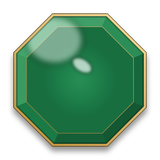
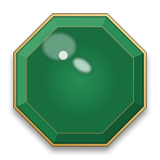
gems: cut the lapis star, and stop muting the accents to olive
The lapis piece was an eight-point star with a 0.60 inner radius — a sparkle, not a stone. The points
are now cut straight (0.76, the ratio two overlapping squares give), with facet lines running from the
table out to each point and alternate wedges shaded, and the specular tight and off-centre instead of a
wide soft ellipse that read as a cloud lying on the stone.

Also: a disabled button was multiplied down to 0.60, which turned the turquoise price pills olive-grey.
They are dimmed to 0.76 now, so an unaffordable task still reads as a turquoise button.

Changed region(s): [[0.1562, 0.0938, 0.5312, 0.4062]]

diff --git a/godot-port/tools/make_gem_art.py b/godot-port/tools/make_gem_art.py
@@ -100,7 +100,7 @@ def silhouette(spec):
     if spec["shape"] == "round":
         return _circle(radius)
     if spec["shape"] == "star8":
-        return _star(8, radius * 1.02, radius * 0.60)
+        return _star(8, radius * 1.02, radius * 0.76)
     if spec["shape"] == "drop":
         return _drop(radius * 0.74, radius * 1.10)
     return _octagon(radius * 1.00)
@@ -217,14 +217,39 @@ def faceted(spec, points, bevel=0.16):
         crease.line([(a_in[0] * SS, a_in[1] * SS), (b_in[0] * SS, b_in[1] * SS)],
                     fill=(0, 0, 0, 46), width=max(1, SS // 2))
 
+    # Facet lines from the centre to each point of the star. A cut stone is a table with edges running
+    # out to the girdle; without them the star is a shape with a bevel, not a stone.
+    facet_draw = ImageDraw.Draw(canvas, "RGBA")
+    if len(points) >= 12:
+        for index in range(0, len(points), 2):
+            x, y = points[index]
+            facet_draw.line([(CX * SS, CY * SS), (x * SS, y * SS)], fill=(255, 255, 255, 26),
+                            width=max(1, SS // 2))
+        # Alternate wedges get a touch of shade: the table catches the light unevenly, as a real cut does.
+        for index in range(0, len(points), 4):
+            a = points[index]
+            b = points[(index + 2) % len(points)]
+            wedge = [(CX, CY), a, b]
+            shade_layer = Image.new("RGBA", (SIZE * SS, SIZE * SS), (0, 0, 0, 0))
+            ImageDraw.Draw(shade_layer).polygon([(x * SS, y * SS) for x, y in wedge],
+                                                fill=(8, 12, 28, 30))
+            canvas.alpha_composite(_crop(shade_layer, mask_of(points)))
+
     # Specular: one soft pass over the upper left of the plate.
     spec_layer = Image.new("RGBA", (SIZE * SS, SIZE * SS), (0, 0, 0, 0))
     spec_draw = ImageDraw.Draw(spec_layer)
-    spec_draw.ellipse((CX * SS - SIZE * SS * 0.34, CY * SS - SIZE * SS * 0.40,
-                       CX * SS + SIZE * SS * 0.02, CY * SS - SIZE * SS * 0.10),
-                      fill=WHITE + (110,))
-    canvas.alpha_composite(clip_to(spec_layer.filter(ImageFilter.GaussianBlur(SS * 3.2)),
+    # Small and off-centre: a wide soft ellipse over a faceted plate reads as a cloud sitting on the
+    # stone, which is what the first pass looked like on the lapis star.
+    spec_draw.ellipse((CX * SS - SIZE * SS * 0.24, CY * SS - SIZE * SS * 0.30,
+                       CX * SS - SIZE * SS * 0.02, CY * SS - SIZE * SS * 0.12),
+                      fill=WHITE + (86,))
+    canvas.alpha_composite(clip_to(spec_layer.filter(ImageFilter.GaussianBlur(SS * 1.8)),
                                    mask_of(points)))
+    spark = Image.new("RGBA", (SIZE * SS, SIZE * SS), (0, 0, 0, 0))
+    ImageDraw.Draw(spark).ellipse((CX * SS - SIZE * SS * 0.135, CY * SS - SIZE * SS * 0.185,
+                                   CX * SS - SIZE * SS * 0.075, CY * SS - SIZE * SS * 0.125),
+                                  fill=WHITE + (200,))
+    canvas.alpha_composite(clip_to(spark.filter(ImageFilter.GaussianBlur(SS * 0.5)), mask_of(points)))
     return canvas
 
 
